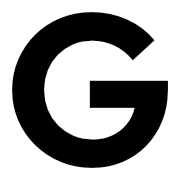
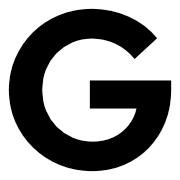
ロゴの SVG に viewBox をつけた

diff --git a/index.html b/index.html
@@ -24,7 +24,7 @@
     <!-- GLOXINIA -->
     <div class="card-wrap">
       <div class="card">
-        <div class="w-full px-8">
+        <div class="w-full">
           <h2 class="hidden">GLOXINIA</h2>
           <img src="./images/gloxinia.svg" alt="GLOXINIA logo image" class="w-full">
         </div>
